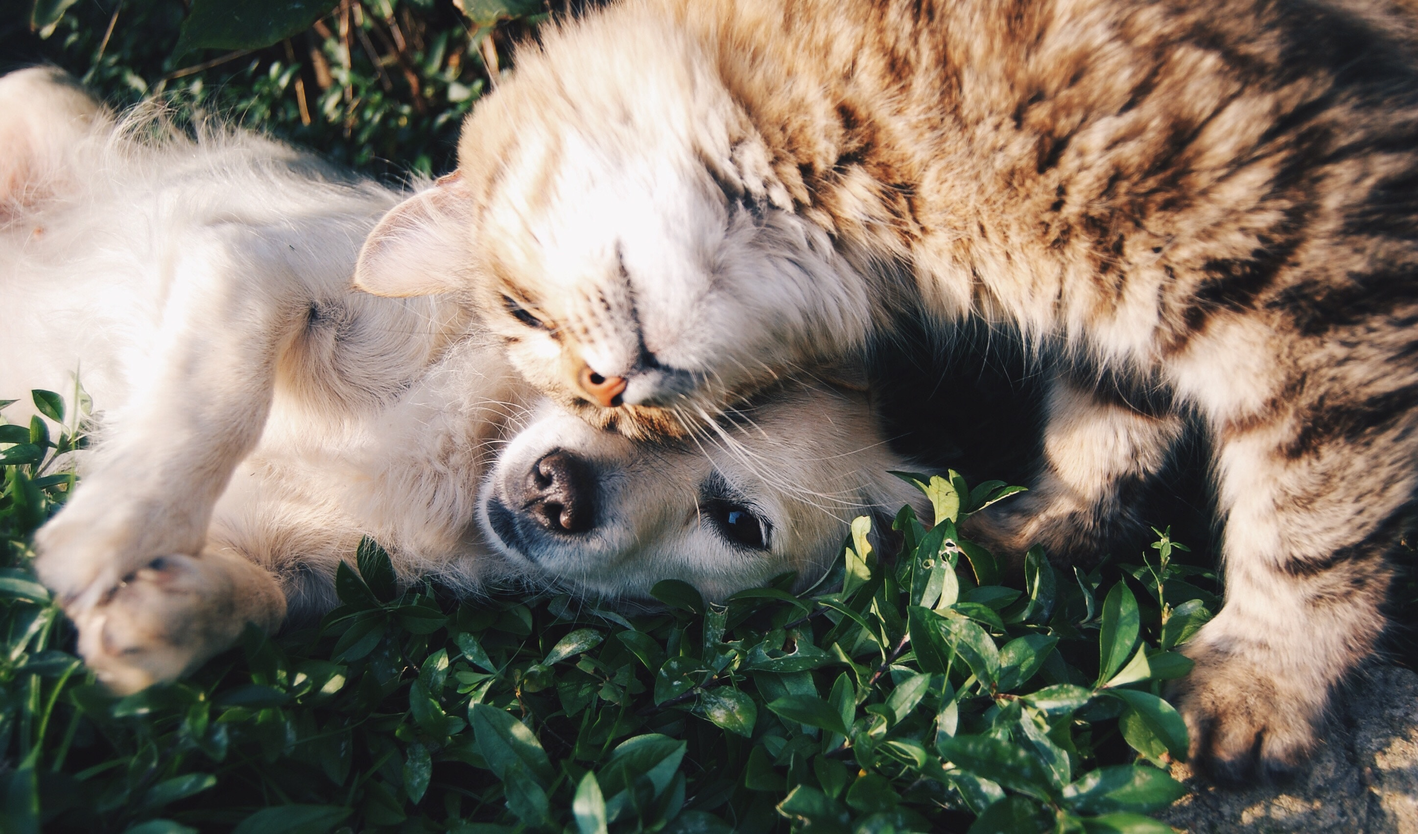
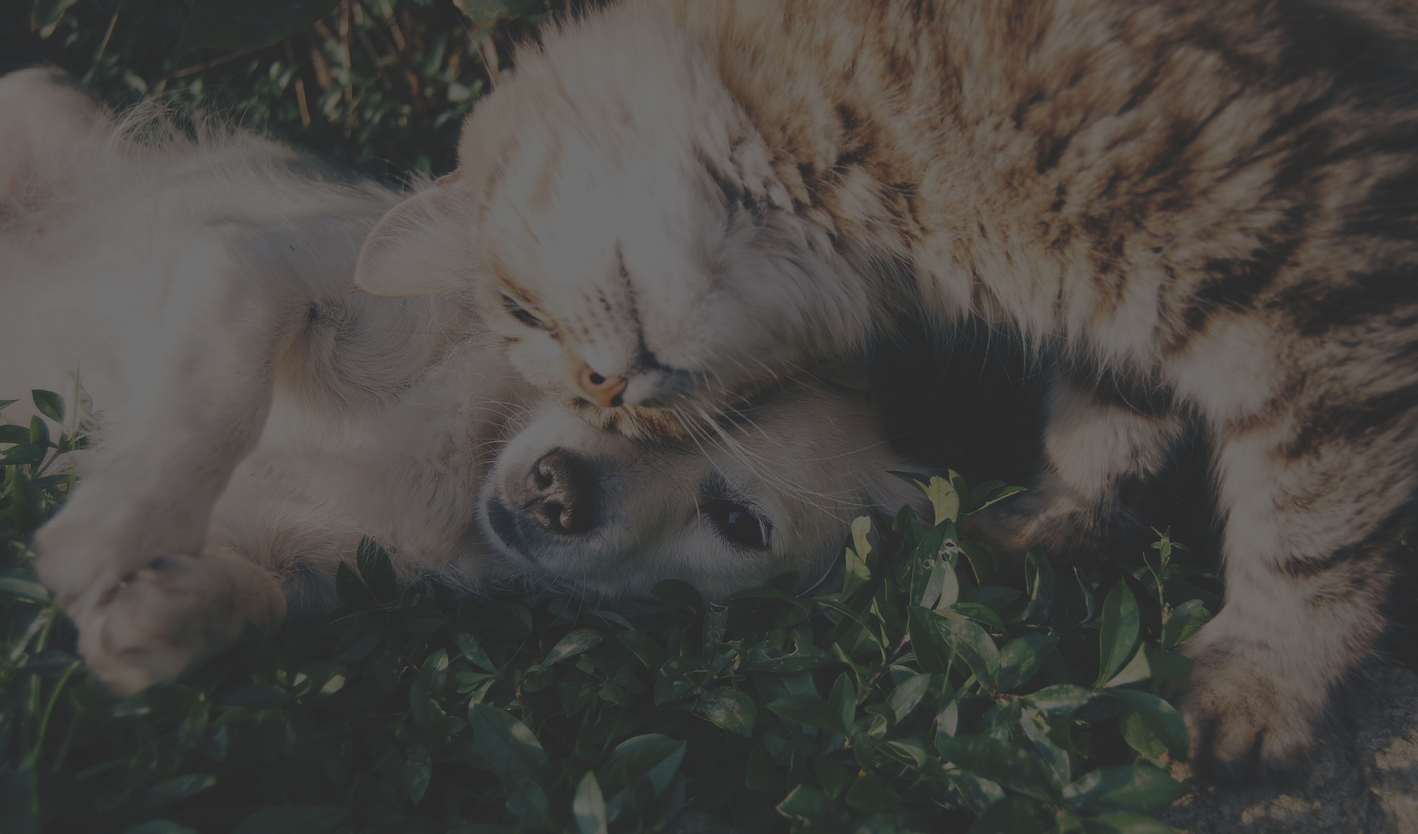
liz edits

diff --git a/client/src/pages/Home/Home.js b/client/src/pages/Home/Home.js
@@ -1,0 +1,20 @@
+import React from "react";
+import { Container, Row, Col } from 'reactstrap';
+import "./Home.css";
+import "../../cat-and-dog.jpg";
+
+const Home = () =>   
+  <Container className="bord-box background">
+    <Row>
+			<Col xs="3"></Col>
+      <Col xs="auto">.col-auto - variable width content</Col>
+      <Col xs="3"></Col>
+		</Row>
+		<Row>
+			<Col xs="3"></Col>
+      <Col xs="auto">Your one stop source for finding the rescue dog of your dreams! Take a short quiz to figure out the dogs best suited to your lifestyle and needs. Save your search results by creating an account.</Col>
+      <Col xs="3"></Col>
+		</Row>
+	</Container>
+
+	export default Home;

diff --git a/client/src/App.js b/client/src/App.js
@@ -1,18 +1,18 @@
 import React from 'react';
 import { BrowserRouter as Router, Route, Switch } from "react-router-dom";
-// import Header from "./components/Header";
-// import Footer from "./components/Footer";
+import Header from "./components/Header";
+import Home from "./pages/Home";
+import NoMatch from "./pages/NoMatch";
+import Footer from "./components/Footer";
 
 const App = () =>
   <Router>
     <div>
       <Header />
-
       <Switch>
-        {/* <Route exact path="/" component={} /> */}
+        <Route exact path="/" component={Home} /> 
         <Route component={NoMatch} />
       </Switch>
-
       <Footer />
     </div>
   </Router>

diff --git a/client/src/pages/NoMatch/NoMatch.js b/client/src/pages/NoMatch/NoMatch.js
@@ -1,1 +1,20 @@
-export { default } from "./NoMatch";
+import React from "react";
+import { Container, Row, Col, Jumbotron } from 'reactstrap';
+
+const NoMatch = () =>
+  <Container fluid>
+    <Row>
+      <Col size="md-12">
+        <Jumbotron>
+          <h1>404 Page Not Found</h1>
+          <h1>
+            <span role="img" aria-label="Face With Rolling Eyes Emoji">
+              🙄
+            </span>
+          </h1>
+        </Jumbotron>
+      </Col>
+    </Row>
+  </Container>;
+
+export default NoMatch;

diff --git a/client/public/test-index.html b/client/public/test-index.html
@@ -49,7 +49,6 @@
 				width: 100%;
 				height: 100vh;
 				background: url(../src/cat-and-dog.jpg) top center fixed;
-				opacity: 0.3;
 				background-size: cover;
 				padding: 0 !important;
 				margin: 0;
